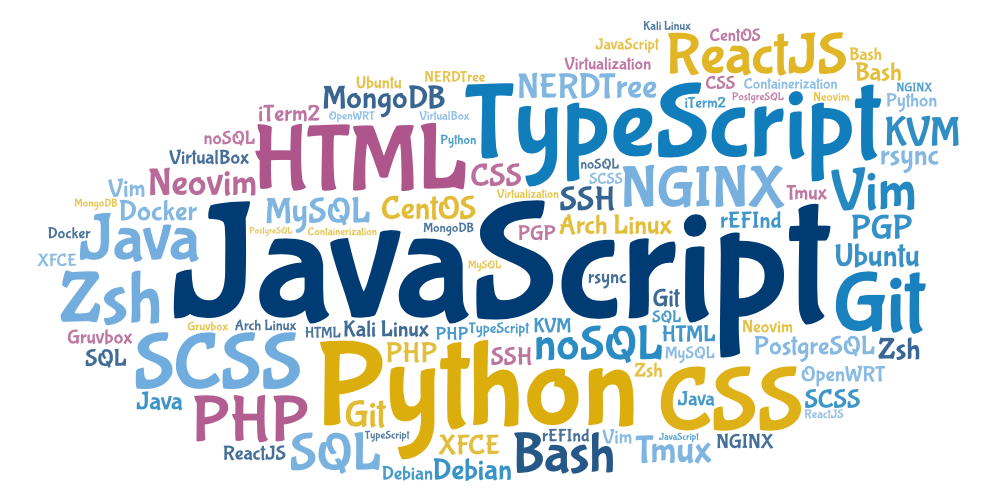
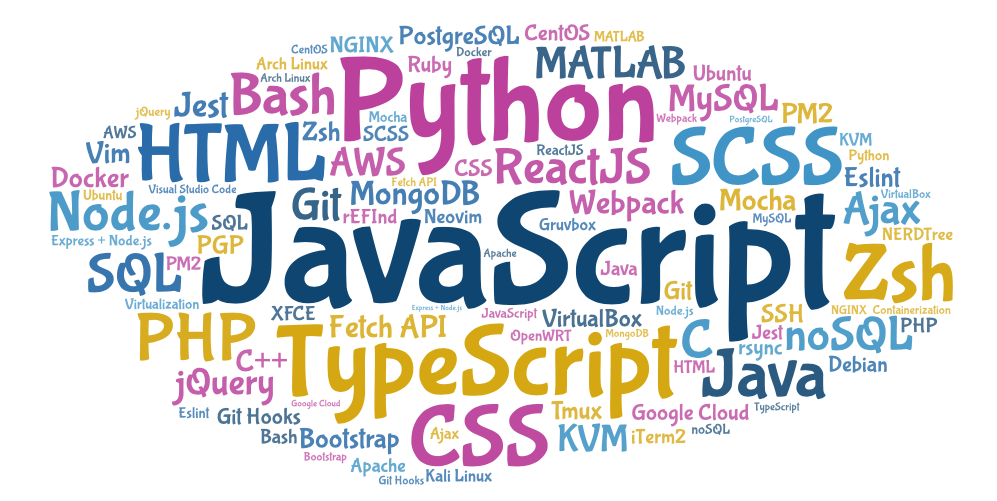
:star: Update word art & minor updates on README

diff --git a/README.md b/README.md
@@ -1,4 +1,4 @@
-Tiannong "Skyler" Dong >> Full-stack developer
+Tiannong "Skyler" Dong << Full-stack developer
 
 PGP fingerprint: CE3E D876 E9D0 5E81 51EC 4484 916F A774 AED0 DA18
 
